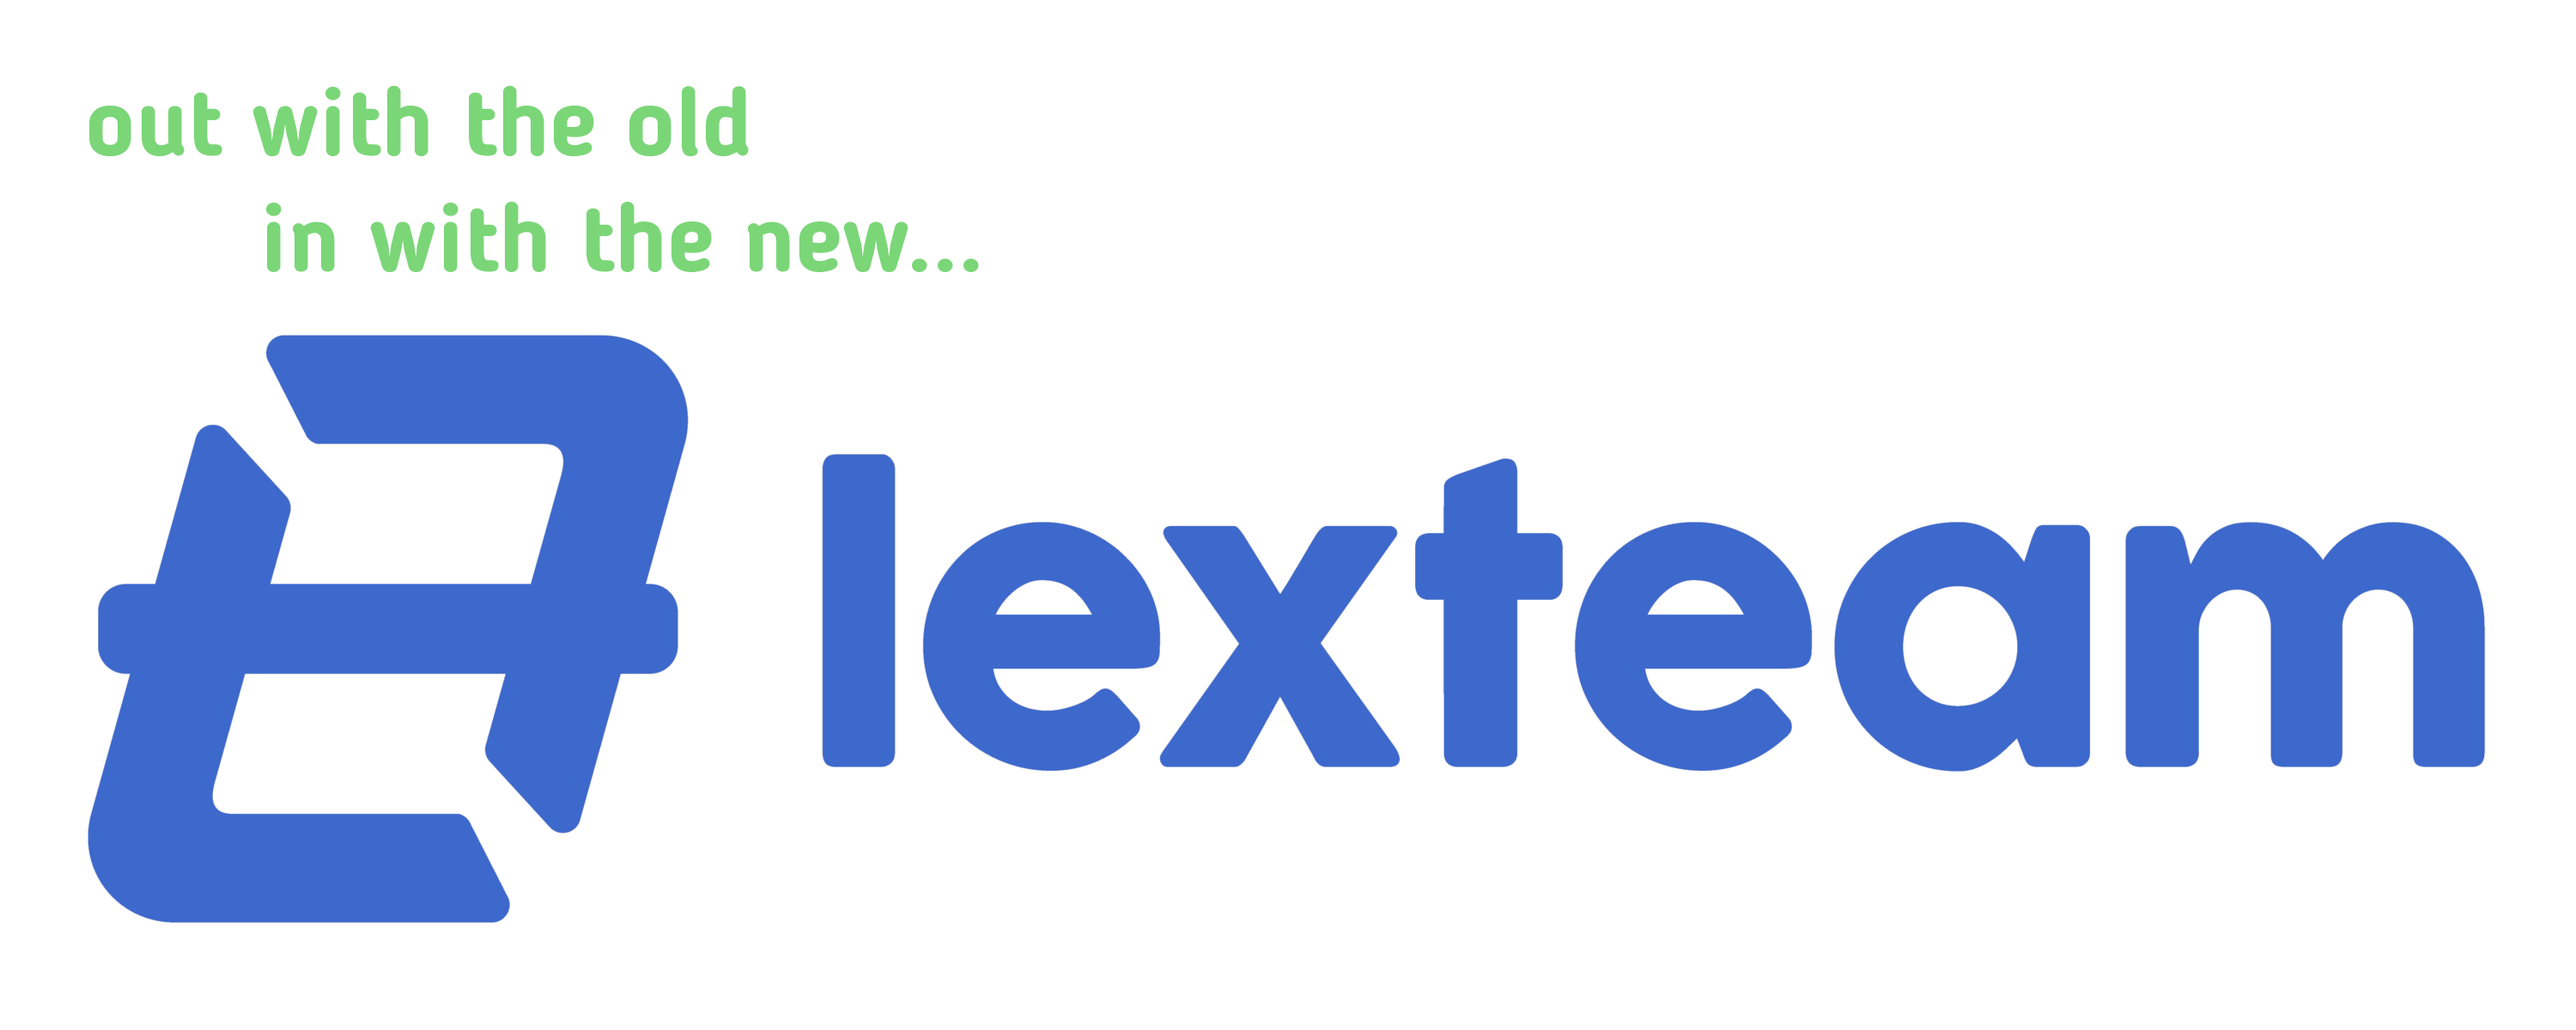
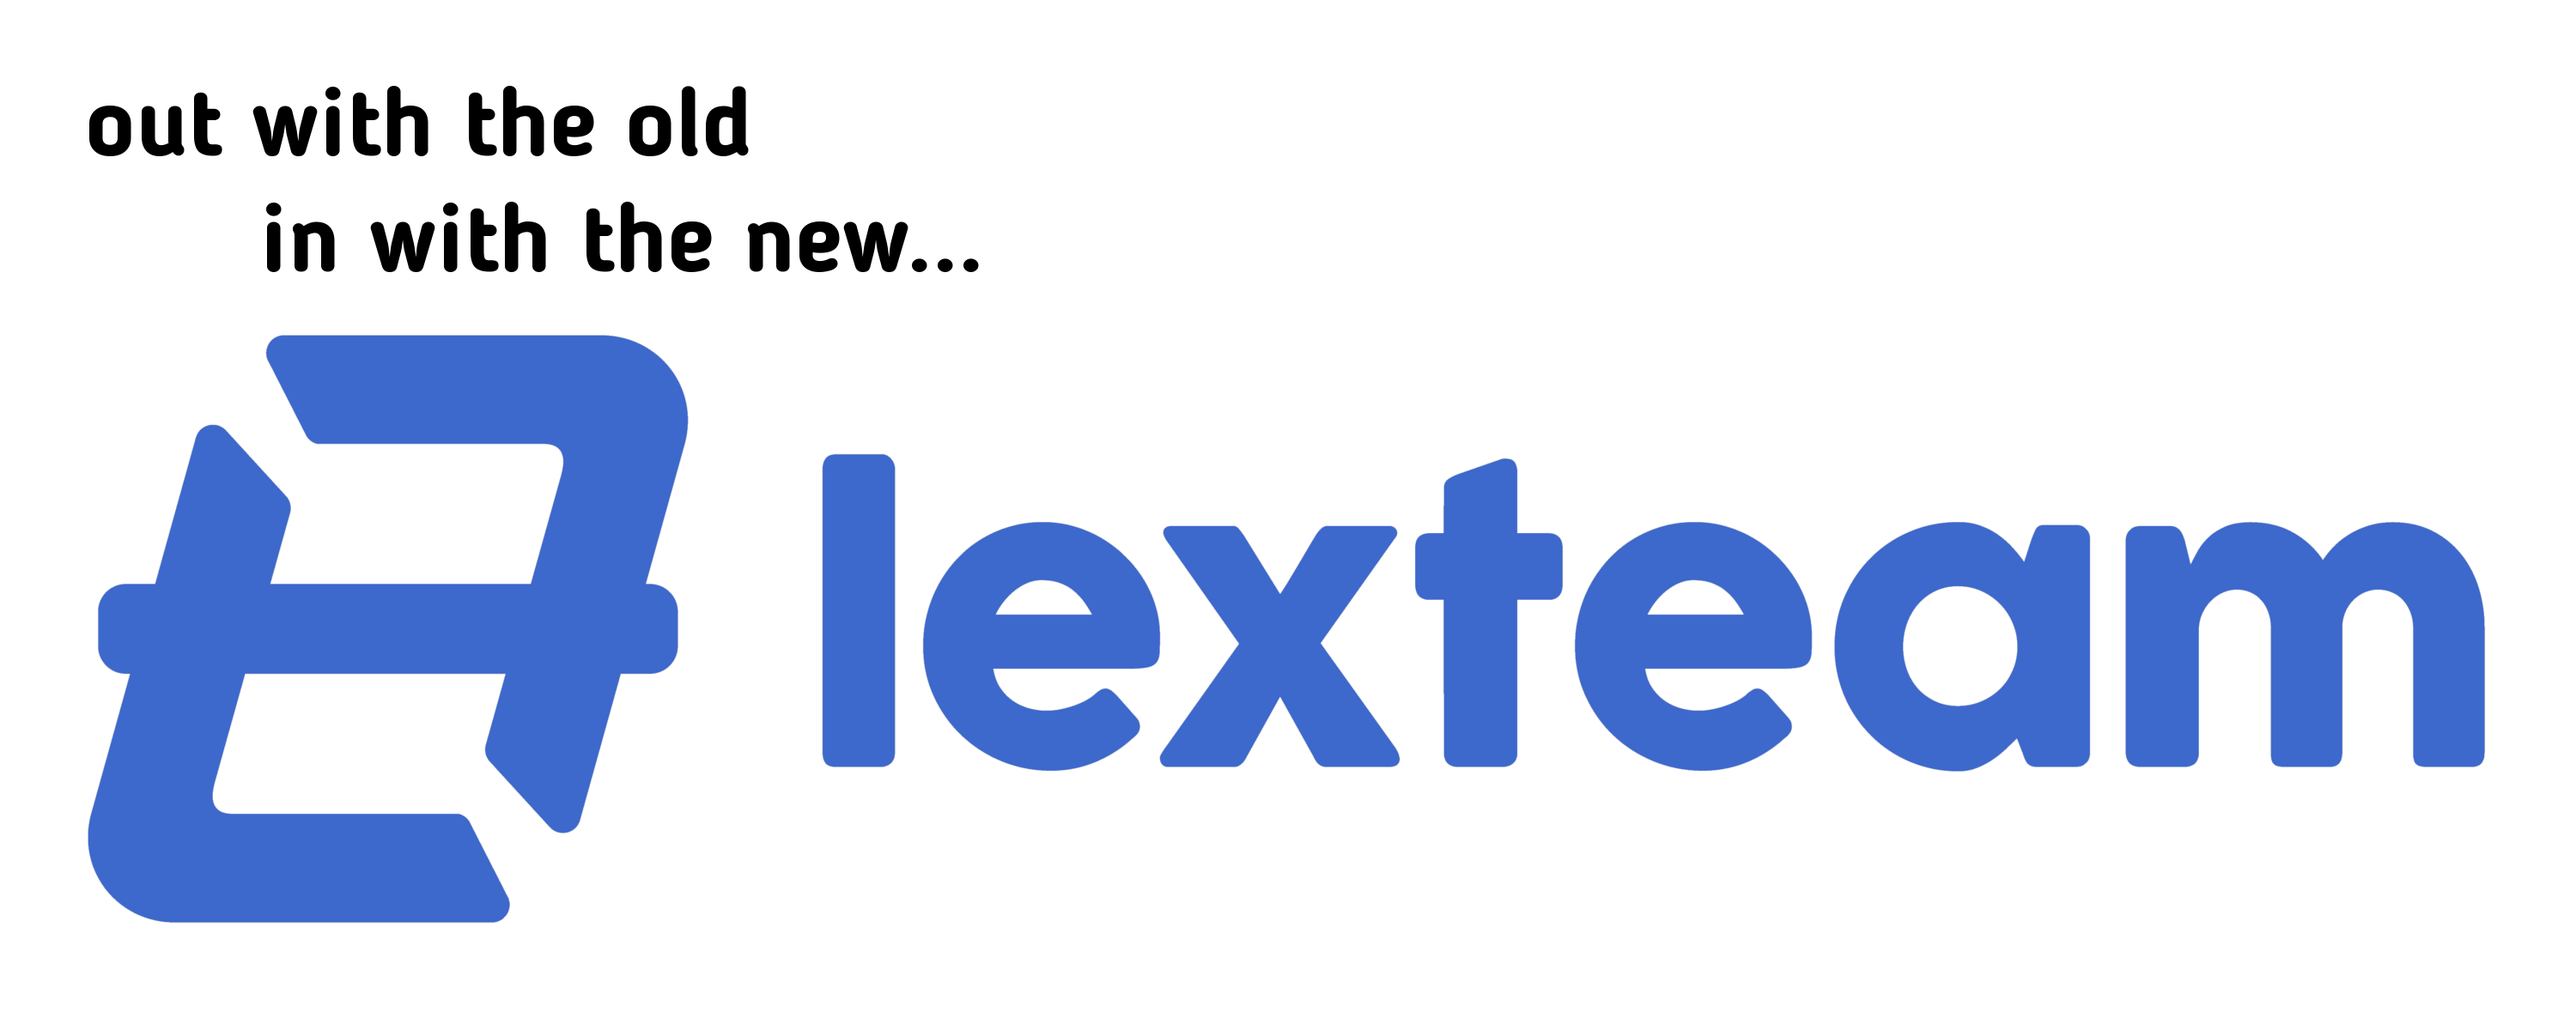
The big experimental colour change

Changed region(s): [[0.093, 0.185, 0.372, 0.2775], [0.031, 0.0925, 0.31, 0.1542]]

diff --git a/violet/dist/violet.min.css b/violet/dist/violet.min.css
@@ -1,1 +1,1 @@
-body,h1,h2,h3,h4,h5,h6,li,p,ul{margin:0}.page-content,.page-display{display:inline-block;text-align:center;width:100%}html{height:100%;box-sizing:border-box}body{position:relative;padding-bottom:3em;min-height:100%;background:#efefef}*,:after,:before{box-sizing:inherit}a{color:#0096dd;text-decoration:none}a:visited{color:#0073aa}main{padding-bottom:1em}.page-container{margin-left:12em;margin-right:12em}.page-container .title{font-size:xx-large}.page-display{position:relative;font-weight:700}.page-display h1{text-decoration:underline;font-weight:700;padding:.2em 0 .5em}.page-content{word-wrap:break-word}.page-content p{font-size:1.2em}.page-snippet{display:block;width:45%;height:12%;padding:.75em;border-radius:.4em;border:.15em solid #7a7a7a;background-color:#f5f5f5}.page-snippet .center{margin:auto}.page-snippet .left{float:left;margin:2em}.page-snippet .right{float:right;margin:2em}.blog-post *,.nav-bar,.panel *{margin:0}.blog-post,.panel{display:inline-block;width:80%;height:80%;border:.2em solid #000;border-radius:.4em;text-align:left}.blog-post .blog-heading,.blog-post .panel-heading,.panel .panel-heading{padding:.4em;background-color:#cacaca}.blog-post .blog-body,.blog-post .panel-body,.panel .panel-body{padding:.3em}.nav-bar{display:block;width:100%;float:left;list-style:none;padding:0;background-color:#3D68CC}.nav-bar .enabled{background-color:#7BD678;border-bottom-color:#7BD678!important}.nav-bar li{float:left;padding:.25em .8em calc(.25em - .4em);font-size:x-large;color:#fff;font-weight:700;border-bottom:.4em solid #3D68CC}.nav-bar li a{color:#fff;text-decoration:none}.nav-bar li:not(.brand){border-right:.05em solid #ccc}.nav-bar li:last-child{border-right:none}.nav-bar li:hover:not(.brand){border-bottom-color:#7BD678}.nav-bar .brand{float:right}.nav-bar-fixed{top:0;padding:0;position:fixed;list-style-type:none;text-decoration:none;display:inline-block;z-index:5}.nav-bar-fixed li{font-size:x-large;padding:.4em .8em .4em calc(.8em - .2em);border-left:.4em solid rgba(1,1,1,0)}.nav-bar-fixed li a{color:#000;text-decoration:none}.nav-bar-fixed li:hover{border-left-color:#000}.nav-bar-fixed .brand{display:none}.footer{background:#fff;height:3em;display:flex;align-items:center;position:absolute;bottom:0;left:0;width:100%}.footer ul{list-style:none;flex:1}.footer ul li{padding:0 .5em;display:inline}.footer ul a{color:#000}.footer ul a:hover{text-decoration:underline}.footer .brand{font-size:x-large;float:right;padding:.25em .8em}.blog-post .blog-subheading{padding:.4em;background-color:silver}
+body,h1,h2,h3,h4,h5,h6,li,p,ul{margin:0}.page-content,.page-display{display:inline-block;text-align:center;width:100%}html{height:100%;box-sizing:border-box}body{position:relative;padding-bottom:3em;min-height:100%;background:#ffe066}*,:after,:before{box-sizing:inherit}a{color:#0096dd;text-decoration:none}a:visited{color:#0073aa}main{padding-bottom:1em}.page-container{margin-left:12em;margin-right:12em}.page-container .title{font-size:xx-large}.page-display{position:relative;font-weight:700}.page-display h1{text-decoration:underline;font-weight:700;padding:.2em 0 .5em}.page-content{word-wrap:break-word}.page-content p{font-size:1.2em}.page-snippet{display:block;width:45%;height:12%;padding:.75em;border-radius:.4em;border:.15em solid #7a7a7a;background-color:#f5f5f5}.page-snippet .center{margin:auto}.page-snippet .left{float:left;margin:2em}.page-snippet .right{float:right;margin:2em}.blog-post *,.nav-bar,.panel *{margin:0}.blog-post,.panel{display:inline-block;width:80%;height:80%;border:.2em solid #000;border-radius:.4em;text-align:left}.blog-post .blog-heading,.blog-post .panel-heading,.panel .panel-heading{padding:.4em;background-color:#cacaca}.blog-post .blog-body,.blog-post .panel-body,.panel .panel-body{padding:.3em}.nav-bar{display:block;width:100%;float:left;list-style:none;padding:0;background-color:#3D68CC}.nav-bar .enabled{background-color:#7BD678;border-bottom-color:#7BD678!important}.nav-bar li{float:left;padding:.25em .8em calc(.25em - .4em);font-size:x-large;color:#fff;font-weight:700;border-bottom:.4em solid #3D68CC}.nav-bar li a{color:#fff;text-decoration:none}.nav-bar li:not(.brand){border-right:.05em solid #ccc}.nav-bar li:last-child{border-right:none}.nav-bar li:hover:not(.brand){border-bottom-color:#7BD678}.nav-bar .brand{float:right}.nav-bar-fixed{top:0;padding:0;position:fixed;list-style-type:none;text-decoration:none;display:inline-block;z-index:5}.nav-bar-fixed li{font-size:x-large;padding:.4em .8em .4em calc(.8em - .2em);border-left:.4em solid rgba(1,1,1,0)}.nav-bar-fixed li a{color:#000;text-decoration:none}.nav-bar-fixed li:hover{border-left-color:#000}.nav-bar-fixed .brand{display:none}.footer{background:#f25f5c;height:3em;display:flex;align-items:center;position:absolute;bottom:0;left:0;width:100%}.footer ul{list-style:none;flex:1}.footer ul li{padding:0 .5em;display:inline}.footer ul a{color:#000}.footer ul a:hover{text-decoration:underline}.footer .brand{font-size:x-large;float:right;padding:.25em .8em}.blog-post .blog-subheading{padding:.4em;background-color:silver}

diff --git a/gulpfile.js b/gulpfile.js
@@ -1,11 +1,11 @@
 var gulp = require('gulp');
-
 var sass = require('gulp-sass');
 var cssmin = require('gulp-cssmin');
 var rename = require('gulp-rename');
+var shell = require('gulp-shell');
 
-gulp.task('watch', function () {
-    gulp.watch('violet/source/*.scss', ['build']);
+gulp.task('watch', ['build'], function () {
+    gulp.watch('violet/source/**/*.scss', ['build']);
 });
 
 gulp.task('scss', function () {
@@ -20,5 +20,9 @@ gulp.task('build', ['scss'], function () {
         .pipe(rename({suffix: '.min'}))
         .pipe(gulp.dest('./violet/dist'));
 });
+
+gulp.task('serve', ['watch'], shell.task([
+    'jekyll serve'
+]));
 
 gulp.task('default', ['build']);

diff --git a/violet/source/_variables.scss b/violet/source/_variables.scss
@@ -1,7 +1,8 @@
 // Colours
 //////////
 
-$colour_background: #efefef;
+//$colour_background: #efefef;
+$colour_background: #ffe066;
 $colour_lex_green: #7BD678;
 $colour_lex_blue: #3D68CC;
 
@@ -15,3 +16,7 @@ $colour_blog_subheading: #c0c0c0;
 $colour_navbar_foreground: white;
 $colour_navbar_background: $colour_lex_blue;
 $colour_navbar_highlight: $colour_lex_green;
+
+// Colours for footer
+
+$colour_footer_background: #f25f5c;

diff --git a/violet/dist/violet.css b/violet/dist/violet.css
@@ -7,7 +7,7 @@ body {
   margin: 0;
   padding-bottom: 3em;
   min-height: 100%;
-  background: #efefef; }
+  background: #ffe066; }
 
 *,
 *:before,
@@ -148,7 +148,7 @@ main {
     display: none; }
 
 .footer {
-  background: white;
+  background: #f25f5c;
   height: 3em;
   display: flex;
   align-items: center;

diff --git a/index.html b/index.html
@@ -2,7 +2,7 @@
 layout: default
 section: home
 ---
-<div class="page-display">
+<div class="page-display slider-display">
     <div class="slider-pro" id="home-slider">
         <div class="sp-slides">
             <div class="sp-slide">

diff --git a/_sass/home.scss b/_sass/home.scss
@@ -1,4 +1,3 @@
-
 .content-well {
   width: 80%;
 }
@@ -25,4 +24,8 @@
         max-height: 14.5rem !important;
     }
   }
+}
+
+.slider-display {
+  background-color: #75C67A;
 }

diff --git a/violet/source/_footer.scss b/violet/source/_footer.scss
@@ -1,5 +1,5 @@
 .footer {
-  background: white;
+  background: $colour_footer_background;
 
   height: 3em;
 
